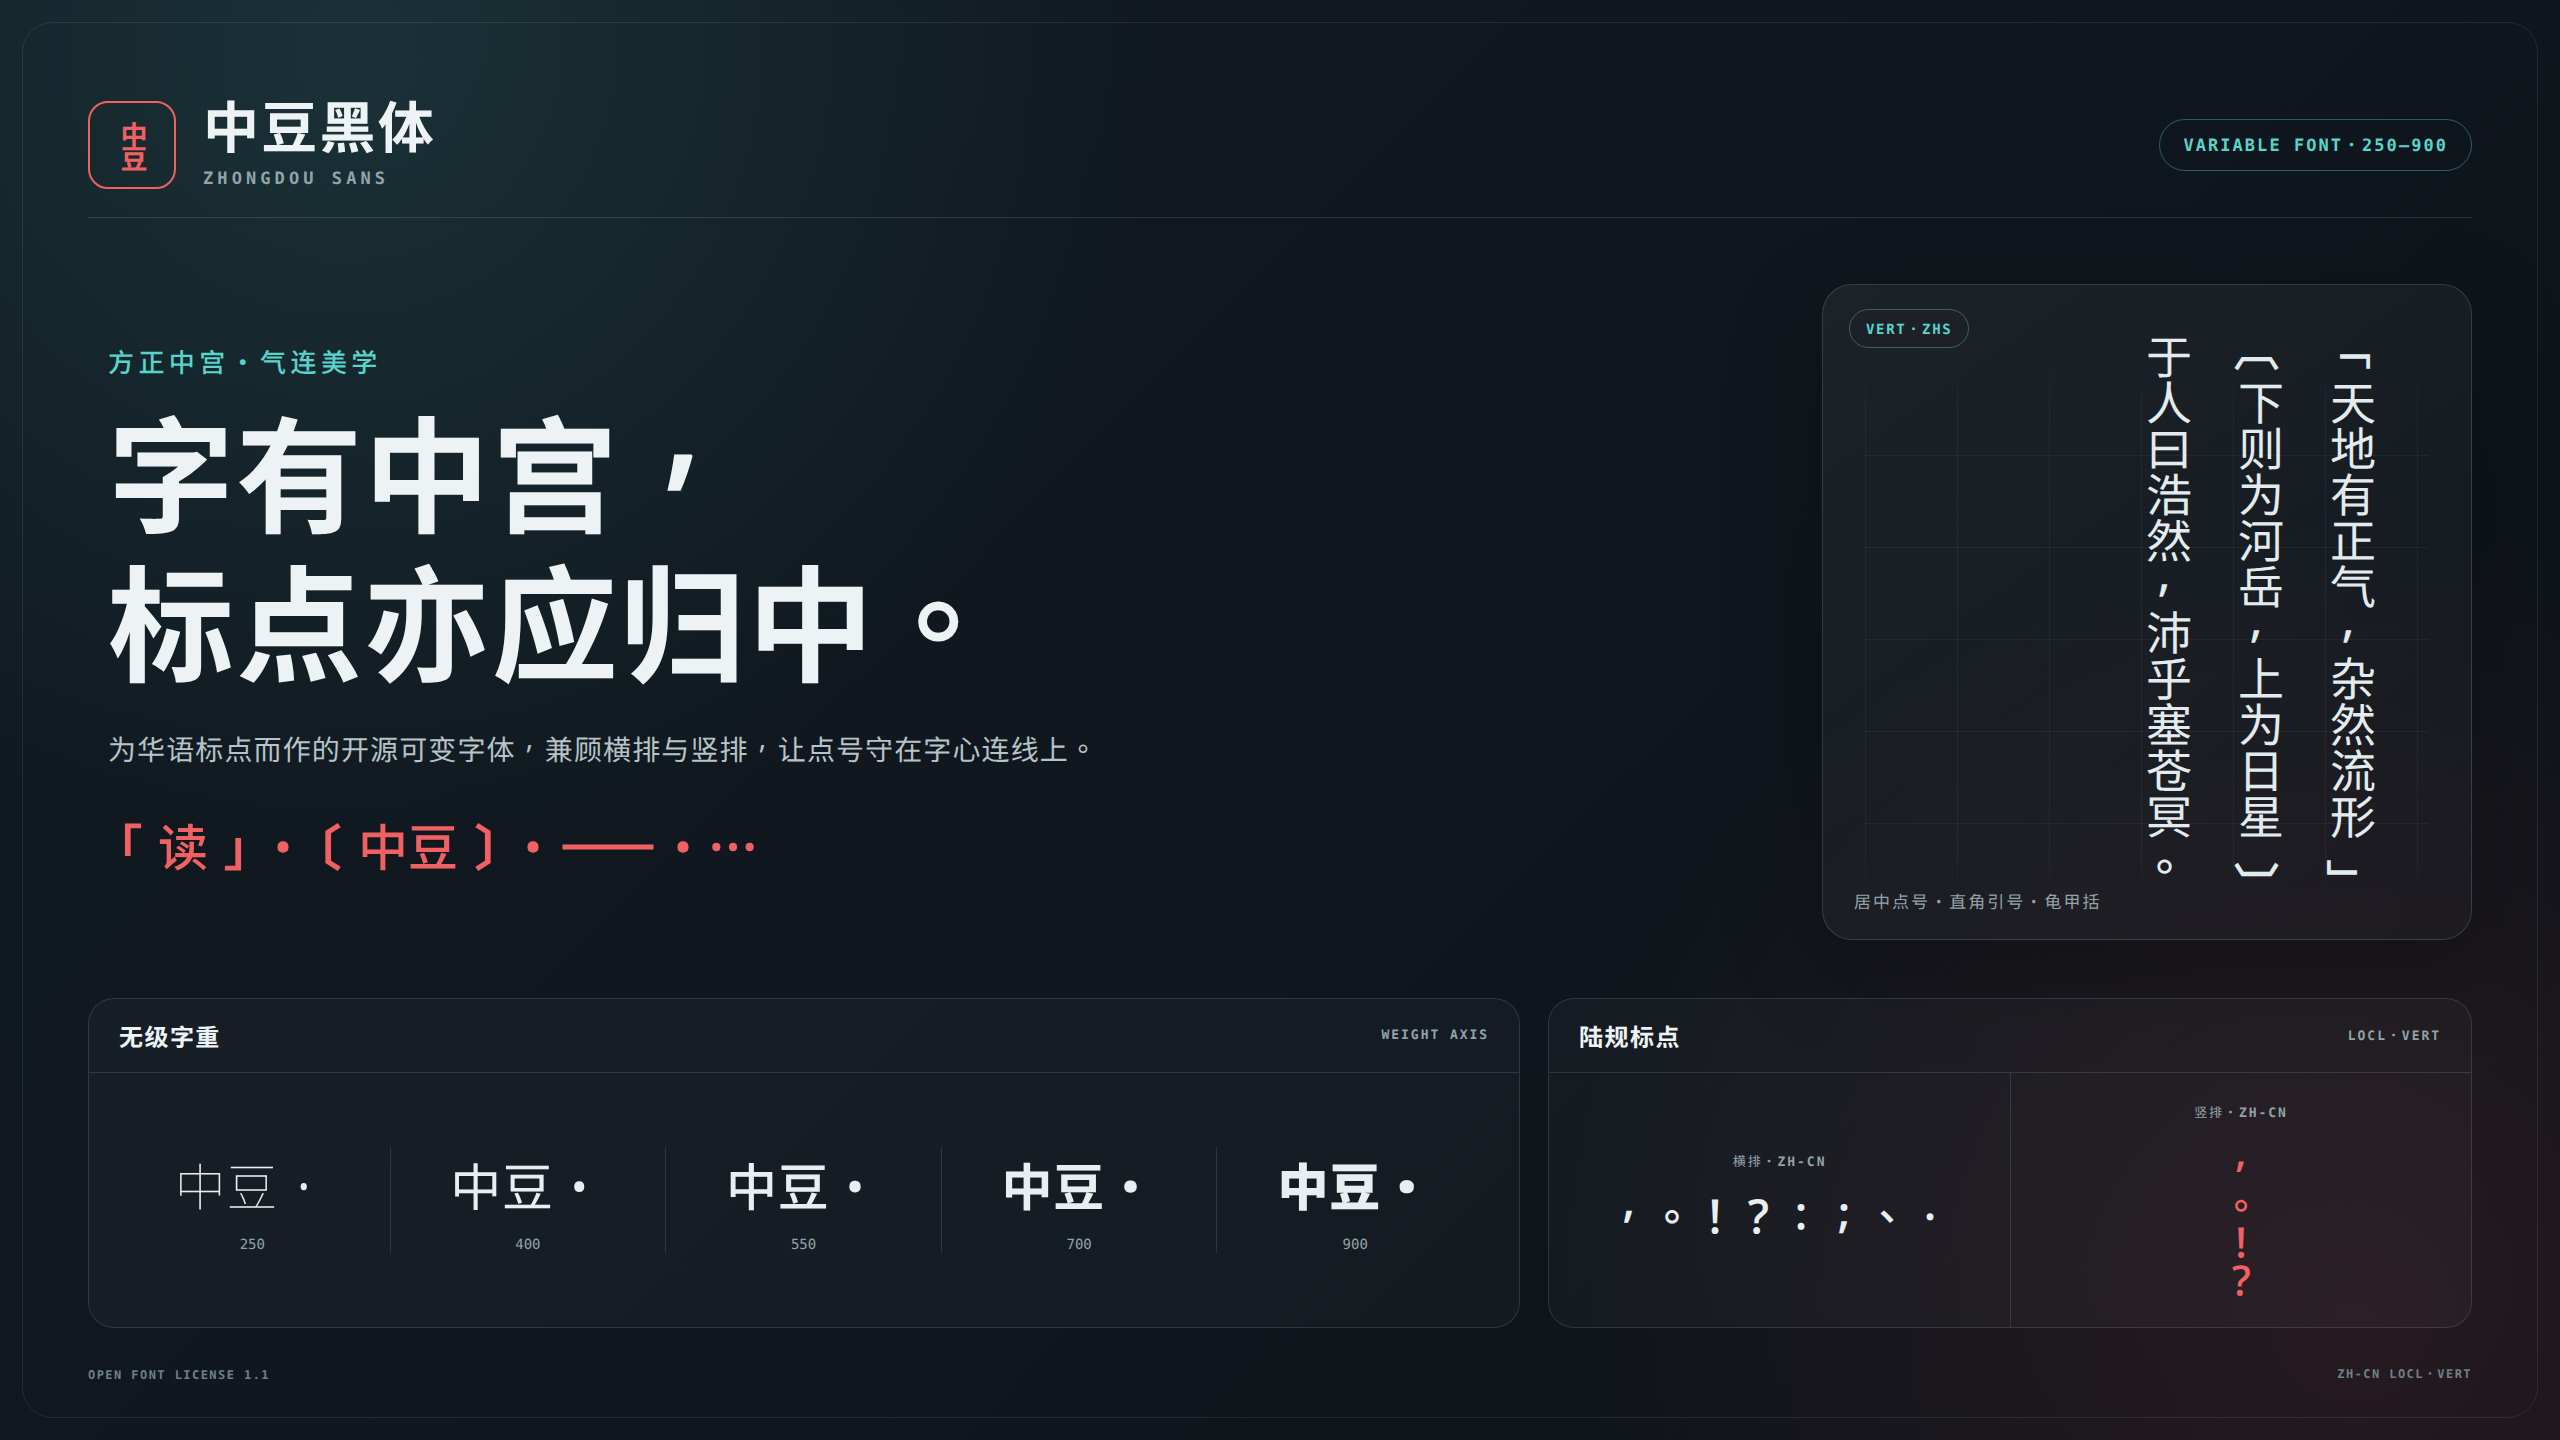
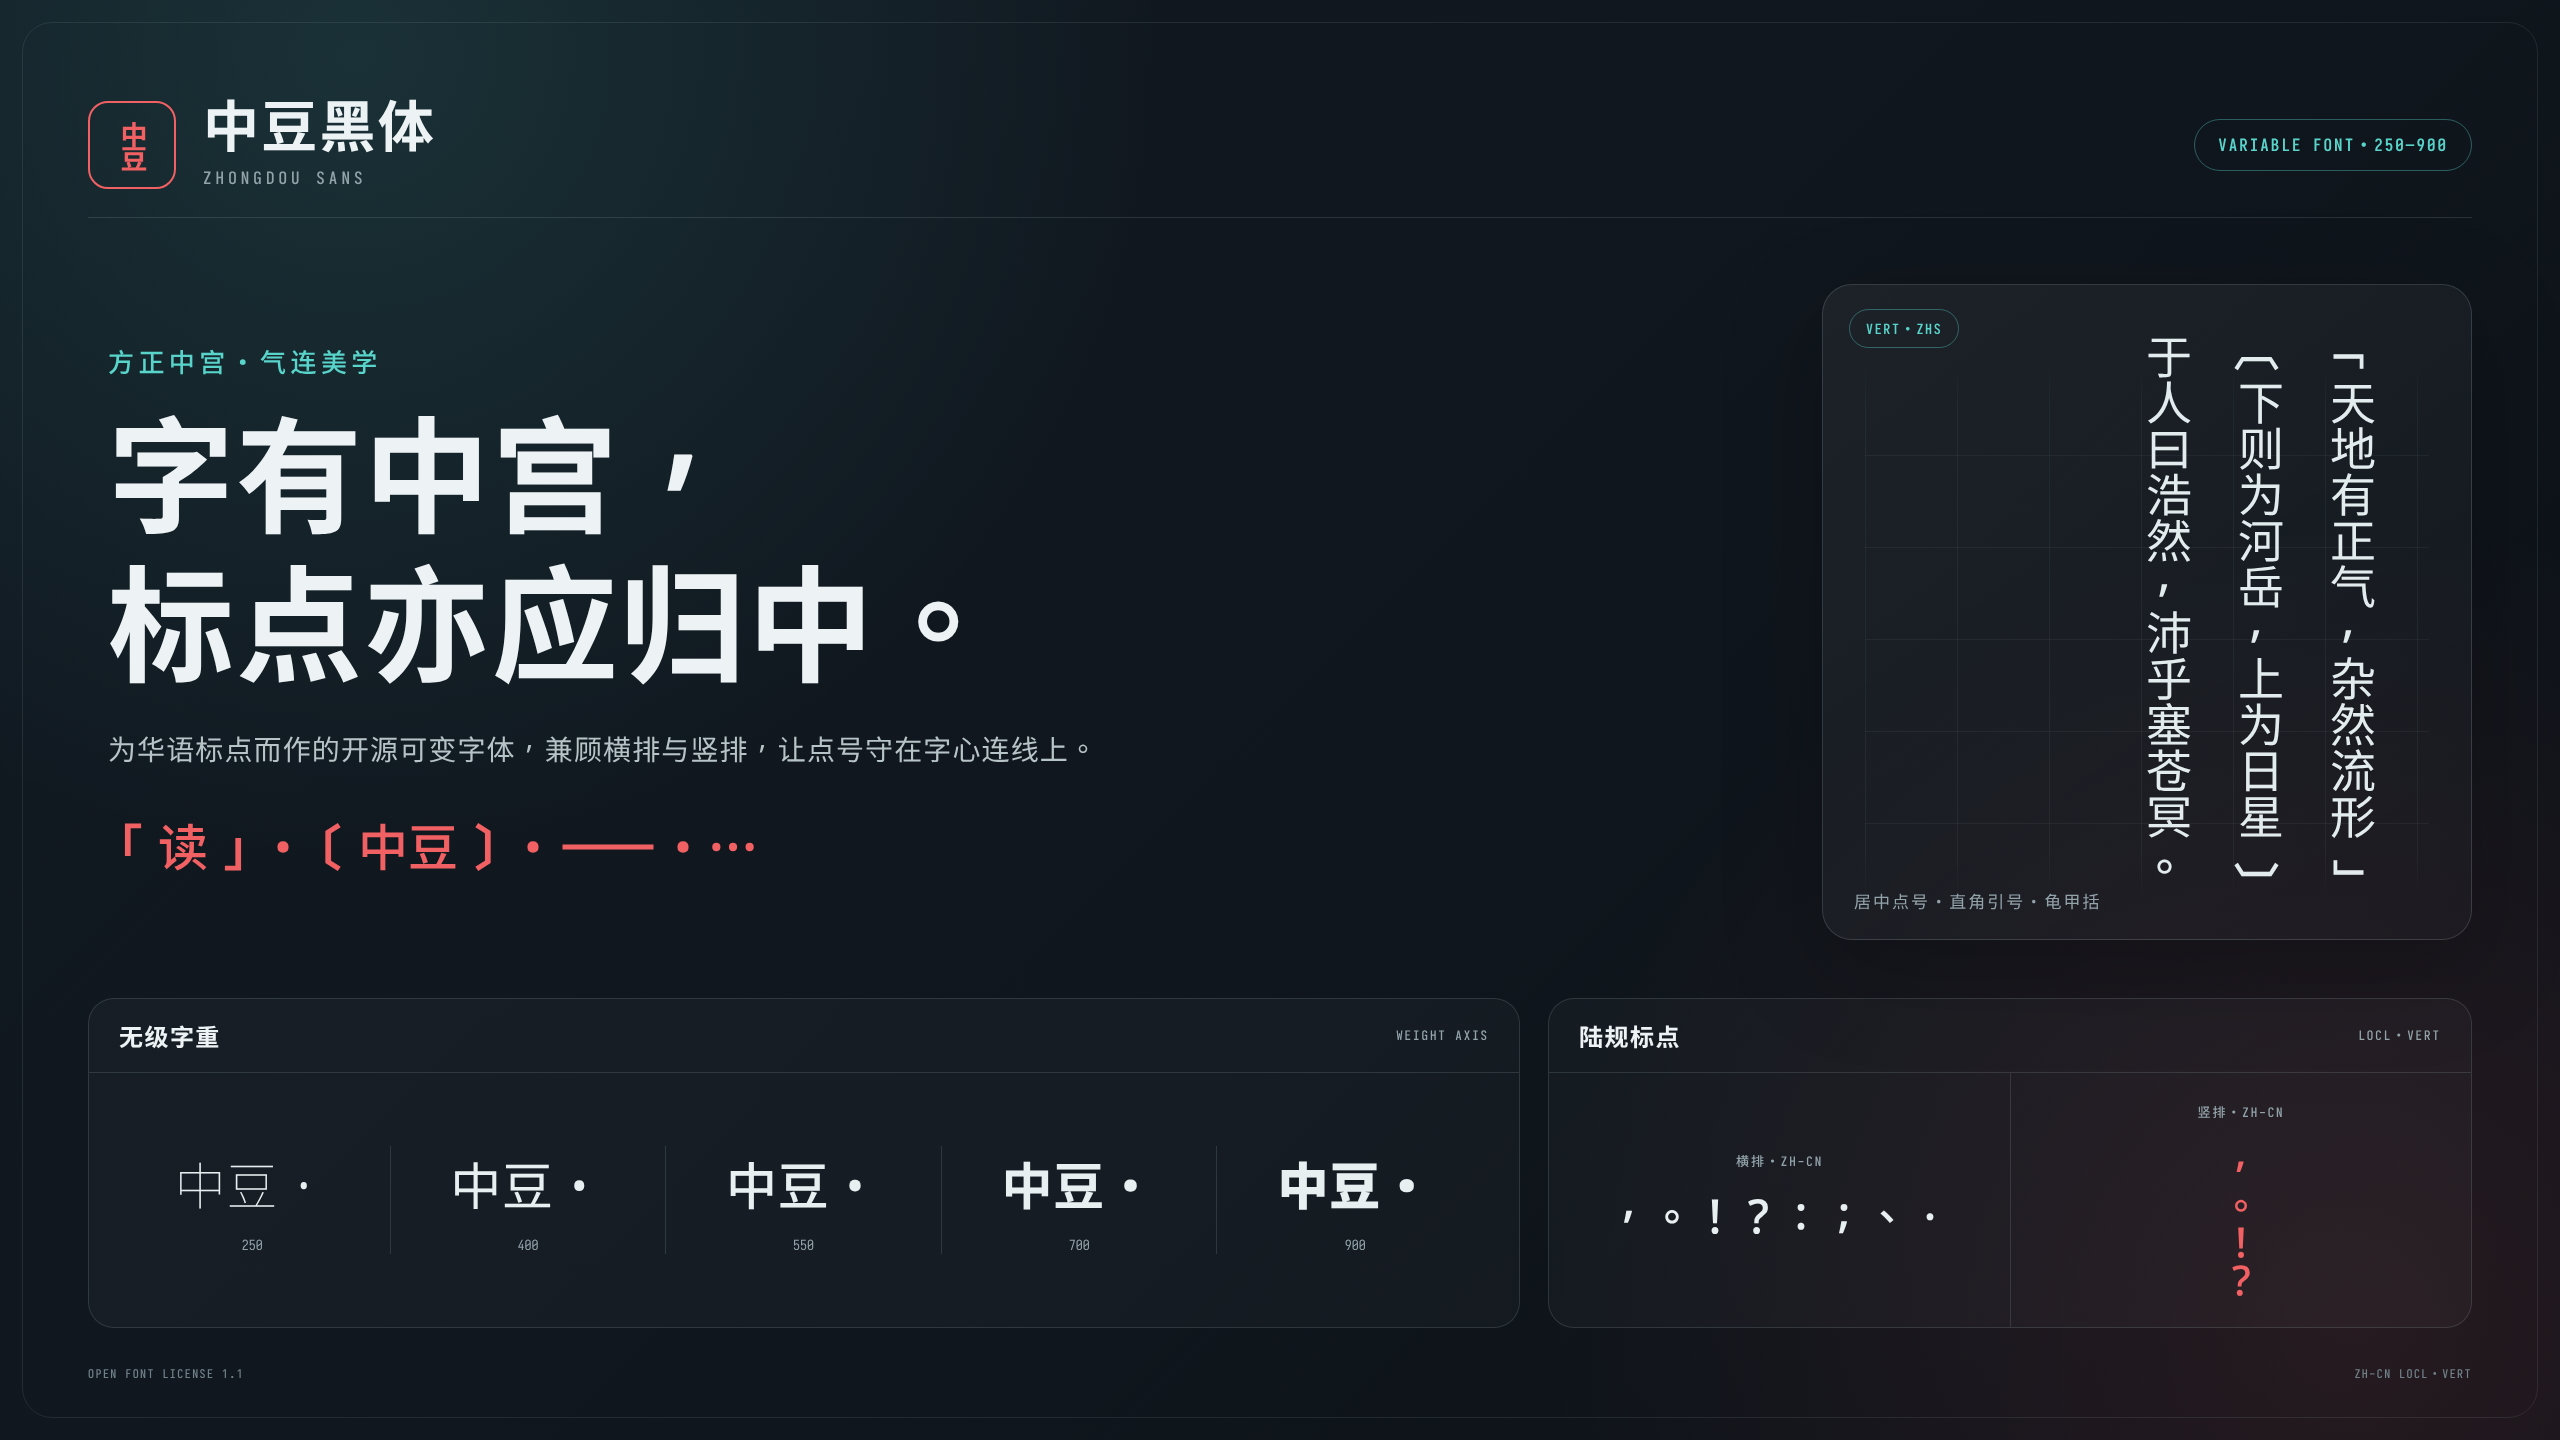
fix: center vertical corner quotes

diff --git a/tools/build_font.py b/tools/build_font.py
@@ -13,6 +13,7 @@ from pathlib import Path
 from fontTools import subset
 from fontTools.ttLib import TTFont
 from fontTools.ttLib.tables import otTables
+from fontTools.ttLib.tables.TupleVariation import TupleVariation
 from fontTools.varLib.iup import iup_delta
 
 
@@ -384,6 +385,49 @@ def translate_variable_glyph_once(
     translate_glyph(font, glyph_name, dx, 0)
 
 
+def translate_variable_composite_once(
+    font: TTFont,
+    glyph_name: str,
+    dx: int,
+    variation_dx: tuple[int, ...],
+    variation_model_glyph: str,
+    before_bounds: tuple[int, int, int, int],
+    after_bounds: tuple[int, int, int, int],
+) -> None:
+    """Center a composite whose master offsets have no existing gvar tuples."""
+    glyph = font["glyf"][glyph_name]
+    glyph.recalcBounds(font["glyf"])
+    bounds = (glyph.xMin, glyph.yMin, glyph.xMax, glyph.yMax)
+    if bounds == after_bounds:
+        return
+    if bounds != before_bounds:
+        raise ValueError(
+            f"unexpected {glyph_name} bounds: {bounds}; expected {before_bounds}"
+        )
+    if not glyph.isComposite() or font["gvar"].variations[glyph_name]:
+        raise ValueError(f"{glyph_name} is not a variation-free composite")
+
+    model_variations = font["gvar"].variations[variation_model_glyph]
+    if len(model_variations) != len(variation_dx):
+        raise ValueError(
+            f"unexpected {variation_model_glyph} variation count: "
+            f"{len(model_variations)}; expected {len(variation_dx)}"
+        )
+
+    coordinate_count = len(glyph.components) + 4
+    font["gvar"].variations[glyph_name] = [
+        TupleVariation(
+            variation.axes,
+            [(tuple_dx, 0)] * len(glyph.components)
+            + [(0, 0)] * (coordinate_count - len(glyph.components)),
+        )
+        for variation, tuple_dx in zip(
+            model_variations, variation_dx, strict=True
+        )
+    ]
+    translate_glyph(font, glyph_name, dx, 0)
+
+
 def sync_dependent_glyph_metrics(font: TTFont, translated: set[str]) -> None:
     """Synchronize side bearings after moving outlines and their composites."""
     affected = set(translated)
@@ -444,6 +488,27 @@ def refine_punctuation_glyphs(font: TTFont) -> None:
         (5, 7),
         (660, 186, 965, 840),
         (348, 186, 653, 840),
+    )
+    # The inherited vertical corner quotes straddle the column center. Move
+    # each rotated composite onto x=500 at every master while preserving its
+    # already-centered vertical position and full-width advance.
+    translate_variable_composite_once(
+        font,
+        "uniFE41",
+        -133,
+        (-8, -21),
+        "uni300C",
+        (306, 227, 960, 532),
+        (173, 227, 827, 532),
+    )
+    translate_variable_composite_once(
+        font,
+        "uniFE42",
+        133,
+        (8, 21),
+        "uni300C",
+        (40, 228, 694, 533),
+        (173, 228, 827, 533),
     )
     sync_dependent_glyph_metrics(font, set(centered_marks) | {"uni300C", "uni3014"})
 

diff --git a/AGENTS.md b/AGENTS.md
@@ -1,0 +1,66 @@
+# Zhongdou Sans project instructions
+
+## Development environment
+
+- Use the repository's Nix flake for project tools. Use Nushell for shell scripts and pipelines.
+- Use `nurfile` as the command catalogue. The main verification commands are
+  `nur demo build`, `nur demo render`, `nur title render`, and `nur site build`.
+- Do not repeatedly invoke a project dependency with `nix run nixpkgs#…`. If a
+  diagnostic or build tool becomes part of the normal workflow, add it to
+  `flake.nix` with a comment explaining why the project needs it.
+- Check `git status --short` before editing. Preserve unrelated user changes.
+
+## Font-editing invariants
+
+- Trace the complete shaping path before changing a glyph: Unicode `cmap`, the
+  default glyph, language-specific `locl`, vertical `vert`, and relevant GSUB
+  lookup order can all select different outlines. A code point alone does not
+  identify what the renderer displays.
+- Keep glyph geometry in the font. CSS may select language, writing mode, and
+  line-breaking behavior, but must not use transforms, offsets, or spacing to
+  hide faulty outlines or metrics.
+- Treat ink bounds, advance width, side bearings, vertical origin, and vertical
+  advance as separate quantities. Centering an outline does not imply changing
+  its full-width advance.
+- When moving a base glyph, inspect every composite that references it. A
+  horizontal translation is rotated into another axis by rotated vertical
+  composites. Update dependent glyph geometry and horizontal/vertical metrics
+  deliberately; do not assume recomputing bearings repairs the outline.
+- Apply changes to every variable-font master and inspect variation deltas.
+  Make transformations idempotent and reject unexpected upstream bounds rather
+  than silently stacking another translation.
+- Check paired punctuation together: opening and closing forms, horizontal and
+  vertical forms, every supported weight, and the relevant language systems.
+- Keep the project's deliberately small OpenType surface. Do not restore
+  unrelated inherited features or removed characters while repairing `locl` or
+  `vert` behavior.
+- Do not alter license declarations unless the user explicitly requests it.
+
+## Verification
+
+- Verify the built font, not only `source/Zhongdou Sans.glyphs` or build-script
+  intent. Rebuild before drawing conclusions about a renderer.
+- Use FontTools to inspect glyph bounds, `hmtx`/`vmtx`, components, and GSUB.
+  Use `hb-shape` to confirm selected glyphs and advances, and `hb-view` to make
+  focused horizontal and vertical specimens.
+- Render the real Chromium demo/site after metric or substitution changes and
+  inspect the output image. A single cropped screenshot is evidence of a bug,
+  not sufficient verification of the fix.
+- Test the default and extreme weights. For vertical punctuation, test in a
+  phrase with adjacent Han characters so displacement within the em is visible.
+- Do not infer one renderer from another. Chromium, GTK Text Editor, and Kitty
+  have different fallback and shaping behavior. CSS's computed `font-family`
+  also does not prove which physical face rendered a character; inspect the
+  rendered font or platform match.
+- Remember that emoji fonts may contain ordinary digits for keycap sequences.
+  Fontconfig fallback order can therefore affect plain digits even when the
+  requested family appears unrelated to emoji.
+
+## Web artifacts
+
+- Keep `demo/index.html` as the compact README specimen and `site/` as the
+  separate public homepage.
+- Custom line-breaking rules are valid when they express the intended rigid
+  inscription layout. They must not compensate for glyph geometry.
+- Regenerate tracked screenshots only through the repository tasks, and review
+  the resulting diff before committing generated assets.
